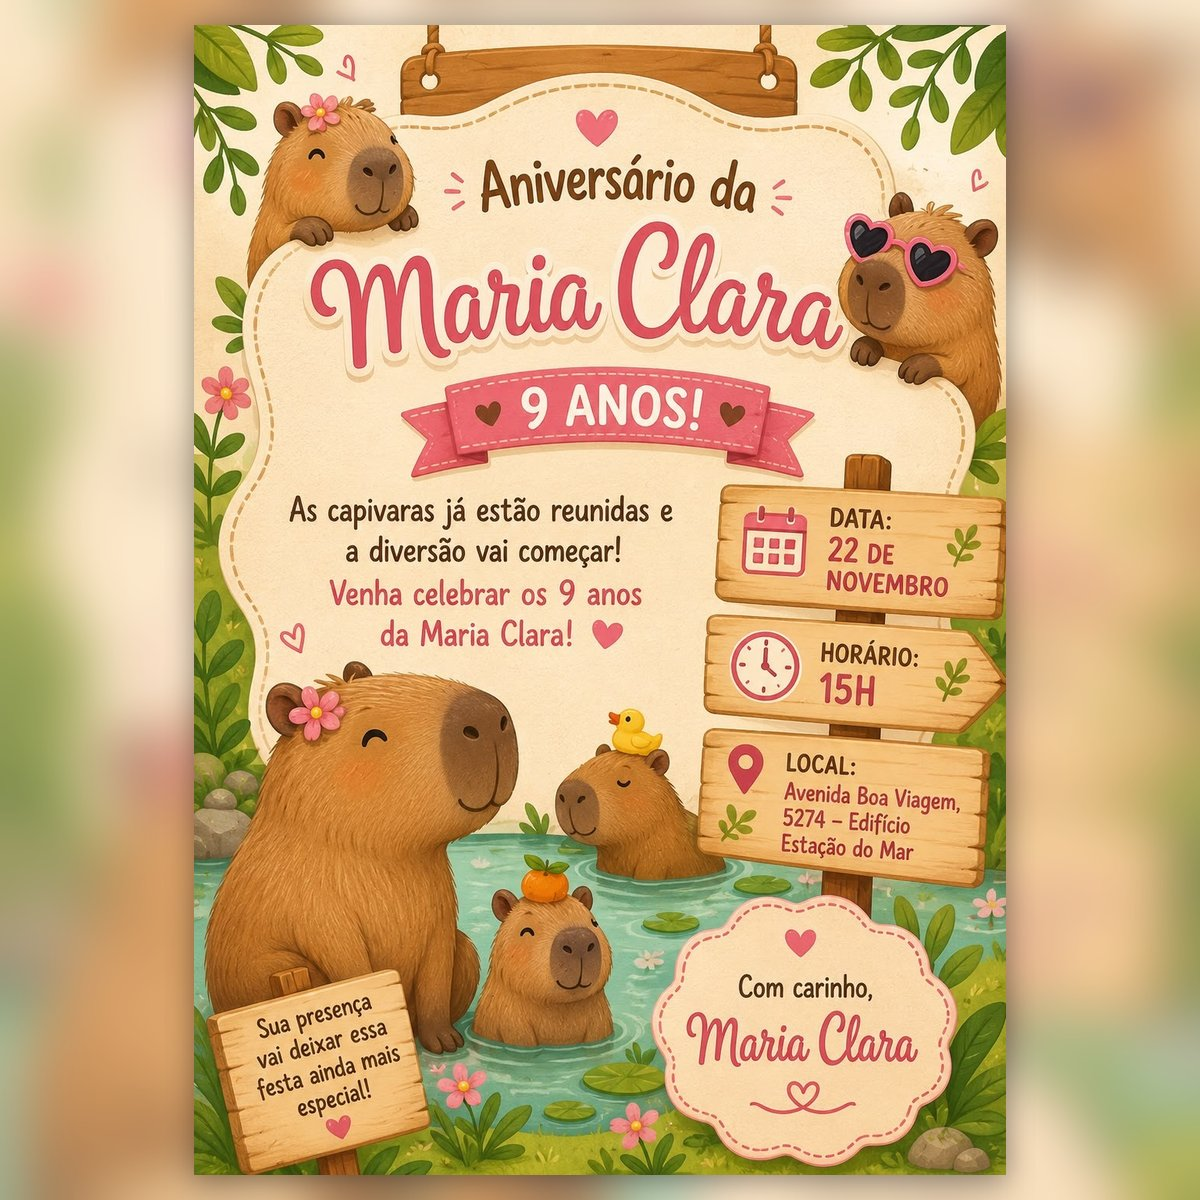
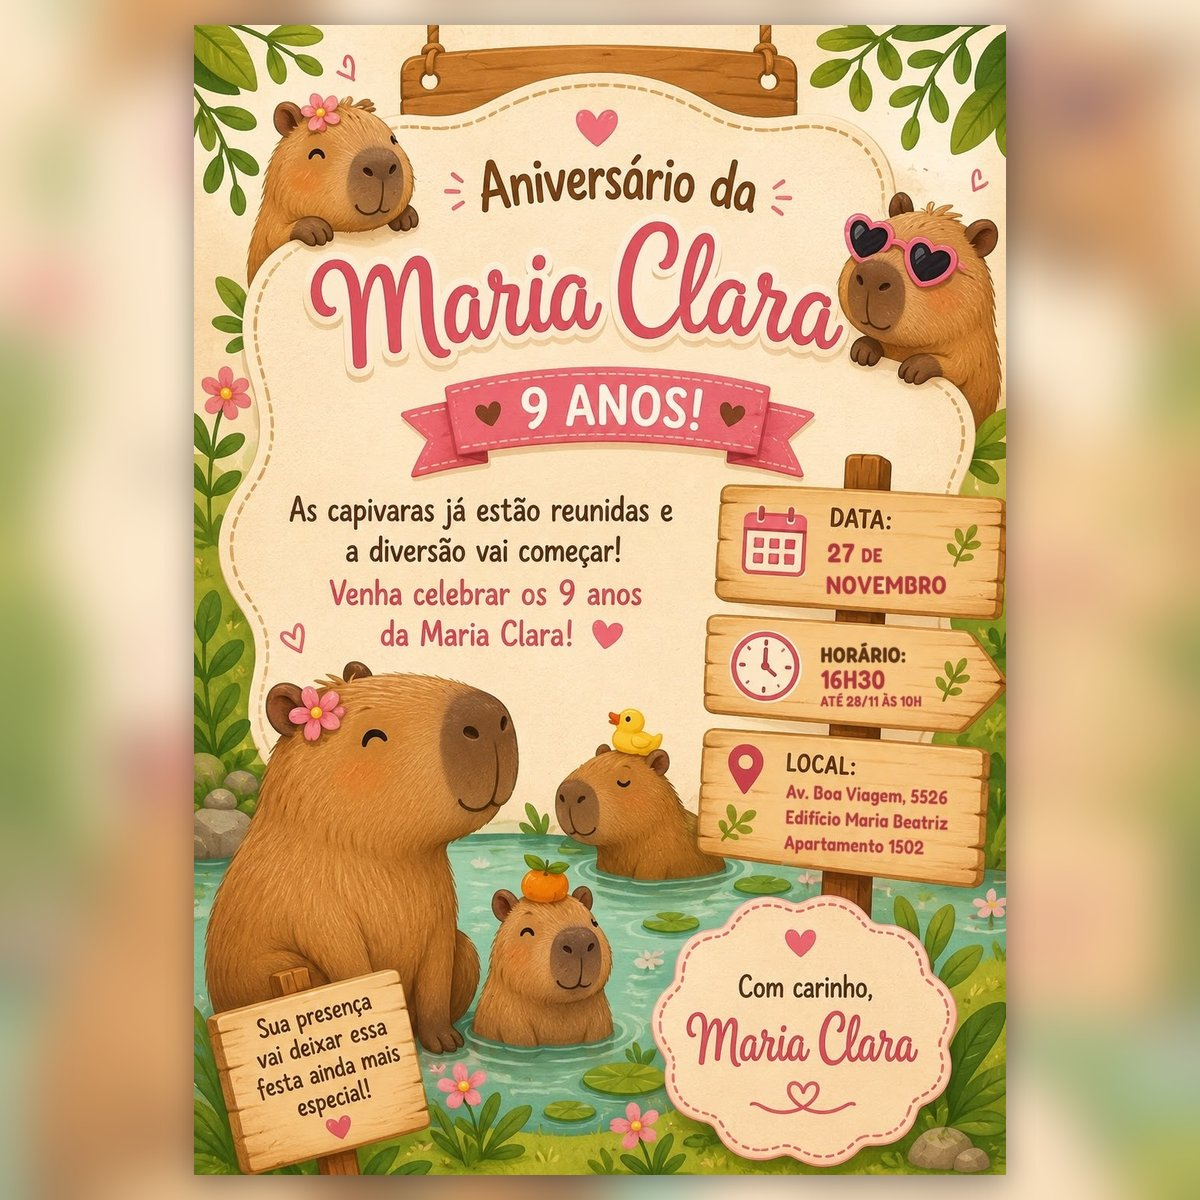
Previas dos convites atualizadas

Changed region(s): [[0.6475, 0.6475, 0.8017, 0.74], [0.6783, 0.5242, 0.7708, 0.5858], [0.6783, 0.4317, 0.8017, 0.4933]]

diff --git a/c/maria-clara-2d91/index.html b/c/maria-clara-2d91/index.html
@@ -2,9 +2,9 @@
 <title>Aniversário de Maria Clara</title>
 <meta property="og:type" content="website"><meta property="og:site_name" content="Mural da Festa">
 <meta property="og:title" content="Aniversário de Maria Clara"><meta property="og:description" content="Confirme sua presença e deixe sua homenagem para Maria Clara: foto, recado, áudio ou vídeo.">
-<meta property="og:url" content="https://luciano504.github.io/mural-da-festa/c/maria-clara-2d91/"><meta property="og:image" content="https://luciano504.github.io/mural-da-festa/c/maria-clara-2d91/og_q.jpg?v=3adab78ab0">
+<meta property="og:url" content="https://luciano504.github.io/mural-da-festa/c/maria-clara-2d91/"><meta property="og:image" content="https://luciano504.github.io/mural-da-festa/c/maria-clara-2d91/og_q.jpg?v=5a8e3bce81">
 <meta property="og:image:width" content="1200"><meta property="og:image:height" content="1200"><meta property="og:image:type" content="image/jpeg">
 <meta name="twitter:card" content="summary_large_image"><meta name="description" content="Confirme sua presença e deixe sua homenagem para Maria Clara: foto, recado, áudio ou vídeo.">
-<meta property="og:image:secure_url" content="https://luciano504.github.io/mural-da-festa/c/maria-clara-2d91/og_q.jpg?v=3adab78ab0"><meta property="og:locale" content="pt_BR">
+<meta property="og:image:secure_url" content="https://luciano504.github.io/mural-da-festa/c/maria-clara-2d91/og_q.jpg?v=5a8e3bce81"><meta property="og:locale" content="pt_BR">
 <script>location.replace("https://luciano504.github.io/mural-da-festa/?f=maria-clara-2d91" + location.hash);</script>
 </head><body style="font-family:system-ui;text-align:center;padding:40px"><p><a href="https://luciano504.github.io/mural-da-festa/?f=maria-clara-2d91">Abrir o convite</a></p></body></html>
